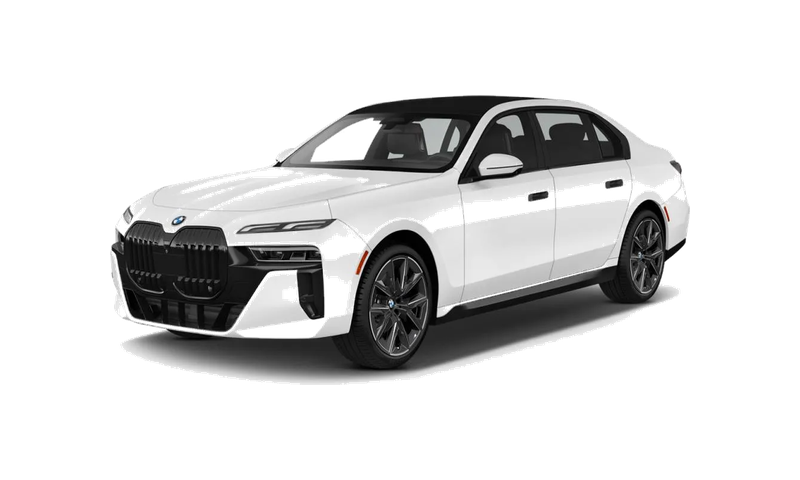
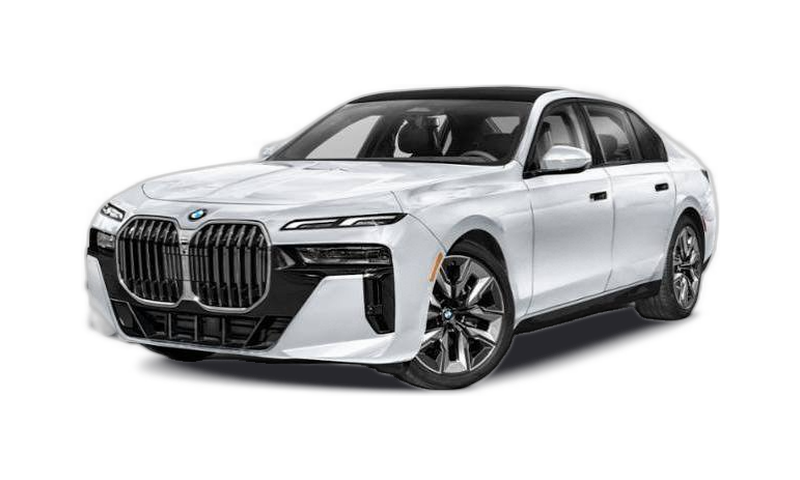
Standardize fleet images with studio quality grounding and update asset references site-wide

diff --git a/index.html b/index.html
@@ -628,7 +628,7 @@
         <div class="fleet-panel active" data-panel="economy">
           <div class="fleet-card">
             <div class="fleet-img-box">
-              <img src="/assets/images/dzire.png" alt="Maruti Suzuki Dzire">
+              <img src="/assets/images/dzire.png?v=2" alt="Maruti Suzuki Dzire">
               <span class="fleet-category-badge">Economy Sedan</span>
             </div>
             <div class="fleet-card-body">
@@ -650,7 +650,7 @@
         <div class="fleet-panel active" data-panel="economy">
           <div class="fleet-card">
             <div class="fleet-img-box">
-              <img src="/assets/images/hyundai-aura.png" alt="Hyundai Aura">
+              <img src="/assets/images/hyundai-aura.png?v=2" alt="Hyundai Aura">
               <span class="fleet-category-badge">Economy Sedan</span>
             </div>
             <div class="fleet-card-body">
@@ -672,7 +672,7 @@
         <div class="fleet-panel active" data-panel="economy">
           <div class="fleet-card">
             <div class="fleet-img-box">
-              <img src="/assets/images/verna.png" alt="Hyundai Verna">
+              <img src="/assets/images/verna.png?v=2" alt="Hyundai Verna">
               <span class="fleet-category-badge">Economy Sedan</span>
             </div>
             <div class="fleet-card-body">
@@ -695,7 +695,7 @@
         <div class="fleet-panel" data-panel="executive">
           <div class="fleet-card">
             <div class="fleet-img-box">
-              <img src="/assets/images/honda-city.png" alt="Honda City">
+              <img src="/assets/images/honda-city.png?v=5" alt="Honda City">
               <span class="fleet-category-badge">Executive Sedan</span>
             </div>
             <div class="fleet-card-body">
@@ -717,7 +717,7 @@
         <div class="fleet-panel" data-panel="executive">
           <div class="fleet-card">
             <div class="fleet-img-box">
-              <img src="/assets/images/ciaz.png" alt="Maruti Suzuki Ciaz">
+              <img src="/assets/images/ciaz.png?v=2" alt="Maruti Suzuki Ciaz">
               <span class="fleet-category-badge">Executive Sedan</span>
             </div>
             <div class="fleet-card-body">
@@ -740,7 +740,7 @@
         <div class="fleet-panel" data-panel="premium">
           <div class="fleet-card">
             <div class="fleet-img-box">
-              <img src="https://www.suhalayatravels.com/assets/img/cars/innova-crysta.png" alt="Toyota Innova Crysta">
+              <img src="/assets/images/innova-crysta.png?v=2" alt="Toyota Innova Crysta">
               <span class="fleet-category-badge">Premium MUV</span>
             </div>
             <div class="fleet-card-body">
@@ -762,7 +762,7 @@
         <div class="fleet-panel" data-panel="premium">
           <div class="fleet-card">
             <div class="fleet-img-box">
-              <img src="https://www.suhalayatravels.com/assets/img/cars/toyoto-innova.png" alt="Toyota Innova Hycross">
+              <img src="/assets/images/innova-hycross.png?v=8" alt="Toyota Innova Hycross">
               <span class="fleet-category-badge">Premium</span>
             </div>
             <div class="fleet-card-body">
@@ -784,7 +784,7 @@
         <div class="fleet-panel" data-panel="premium">
           <div class="fleet-card">
             <div class="fleet-img-box">
-              <img src="https://www.suhalayatravels.com/assets/img/cars/toyoto-fortuner.png" alt="Toyota Fortuner">
+              <img src="/assets/images/fortuner.png?v=2" alt="Toyota Fortuner">
               <span class="fleet-category-badge">Premium</span>
             </div>
             <div class="fleet-card-body">
@@ -806,7 +806,7 @@
         <div class="fleet-panel" data-panel="premium">
           <div class="fleet-card">
             <div class="fleet-img-box">
-              <img src="https://www.suhalayatravels.com/assets/img/cars/suzuki-ciaz.png" alt="Toyota Camry">
+              <img src="/assets/images/camry.png?v=5" alt="Toyota Camry">
               <span class="fleet-category-badge">Premium</span>
             </div>
             <div class="fleet-card-body">
@@ -829,7 +829,7 @@
         <div class="fleet-panel" data-panel="luxury">
           <div class="fleet-card">
             <div class="fleet-img-box">
-              <img src="https://www.suhalayatravels.com/assets/img/cars/innova-commuter.png" alt="Toyota Vellfire">
+              <img src="/assets/images/vellfire.png?v=2" alt="Toyota Vellfire">
               <span class="fleet-category-badge">Luxury VIP</span>
             </div>
             <div class="fleet-card-body">
@@ -851,7 +851,7 @@
         <div class="fleet-panel" data-panel="luxury">
           <div class="fleet-card">
             <div class="fleet-img-box">
-              <img src="/assets/images/bmw.png" alt="BMW 5 Series">
+              <img src="/assets/images/bmw.png?v=2" alt="BMW 5 Series">
               <span class="fleet-category-badge">Luxury VIP</span>
             </div>
             <div class="fleet-card-body">
@@ -873,7 +873,7 @@
         <div class="fleet-panel" data-panel="luxury">
           <div class="fleet-card">
             <div class="fleet-img-box">
-              <img src="/assets/images/mercedes-e-class.png" alt="Mercedes-Benz E-Class">
+              <img src="/assets/images/mercedes-e-class.png?v=2" alt="Mercedes-Benz E-Class">
               <span class="fleet-category-badge">Luxury VIP</span>
             </div>
             <div class="fleet-card-body">
@@ -895,7 +895,7 @@
         <div class="fleet-panel" data-panel="luxury">
           <div class="fleet-card">
             <div class="fleet-img-box">
-              <img src="/assets/images/audi.png" alt="Audi A4">
+              <img src="/assets/images/audi.png?v=2" alt="Audi A4">
               <span class="fleet-category-badge">Luxury VIP</span>
             </div>
             <div class="fleet-card-body">
@@ -917,7 +917,7 @@
         <div class="fleet-panel" data-panel="luxury">
           <div class="fleet-card">
             <div class="fleet-img-box">
-              <img src="/assets/images/bmw-7-series.png" alt="BMW 7 Series">
+              <img src="/assets/images/bmw-7-series.png?v=2" alt="BMW 7 Series">
               <span class="fleet-category-badge">Super Luxury VIP</span>
             </div>
             <div class="fleet-card-body">
@@ -939,7 +939,7 @@
         <div class="fleet-panel" data-panel="luxury">
           <div class="fleet-card">
             <div class="fleet-img-box">
-              <img src="/assets/images/mercedes-s-class.png" alt="Mercedes-Benz S-Class">
+              <img src="/assets/images/mercedes-s-class.png?v=2" alt="Mercedes-Benz S-Class">
               <span class="fleet-category-badge">Super Luxury VIP</span>
             </div>
             <div class="fleet-card-body">
@@ -961,7 +961,7 @@
         <div class="fleet-panel" data-panel="luxury">
           <div class="fleet-card">
             <div class="fleet-img-box">
-              <img src="/assets/images/audi-a7.png" alt="Audi Q7">
+              <img src="/assets/images/audi-a7.png?v=2" alt="Audi Q7">
               <span class="fleet-category-badge">Super Luxury SUV</span>
             </div>
             <div class="fleet-card-body">
@@ -983,7 +983,7 @@
         <div class="fleet-panel" data-panel="luxury">
           <div class="fleet-card">
             <div class="fleet-img-box">
-              <img src="https://www.suhalayatravels.com/assets/img/cars/innova-commuter1.png" alt="Toyota Commuter">
+              <img src="/assets/images/toyota-commuter.png?v=2" alt="Toyota Commuter">
               <span class="fleet-category-badge">Luxury VIP</span>
             </div>
             <div class="fleet-card-body">
@@ -1006,7 +1006,7 @@
         <div class="fleet-panel" data-panel="mpv">
           <div class="fleet-card">
             <div class="fleet-img-box">
-              <img src="/assets/images/force-urbania.png" alt="Force Urbania - 9 Seater">
+              <img src="/assets/images/force-urbania.png?v=2" alt="Force Urbania - 9 Seater">
               <span class="fleet-category-badge">Multi Passenger</span>
             </div>
             <div class="fleet-card-body">
@@ -1028,7 +1028,7 @@
         <div class="fleet-panel" data-panel="mpv">
           <div class="fleet-card">
             <div class="fleet-img-box">
-              <img src="/assets/images/urbania-12-seater.png" alt="Force Urbania - 12 Seater">
+              <img src="/assets/images/urbania-12-seater.png?v=2" alt="Force Urbania - 12 Seater">
               <span class="fleet-category-badge">Multi Passenger</span>
             </div>
             <div class="fleet-card-body">
@@ -1050,7 +1050,7 @@
         <div class="fleet-panel" data-panel="mpv">
           <div class="fleet-card">
             <div class="fleet-img-box">
-              <img src="/assets/images/urbania-16-seater.png" alt="Force Urbania - 16 Seater">
+              <img src="/assets/images/urbania-16-seater.png?v=2" alt="Force Urbania - 16 Seater">
               <span class="fleet-category-badge">Multi Passenger</span>
             </div>
             <div class="fleet-card-body">
@@ -1114,7 +1114,7 @@
         <div class="fleet-panel" data-panel="mpv">
           <div class="fleet-card">
             <div class="fleet-img-box">
-              <img src="/assets/images/ashok-leyland-24-seater.png" alt="Ashok Leyland - 24 Seater">
+              <img src="/assets/images/ashok-leyland-24-seater.png?v=2" alt="Ashok Leyland - 24 Seater">
               <span class="fleet-category-badge">Multi Passenger</span>
             </div>
             <div class="fleet-card-body">

diff --git a/events-conferences/index.html b/events-conferences/index.html
@@ -390,7 +390,7 @@
         <!-- 3. Mercedes-Benz E-Class -->
         <div class="fleet-catalog-card-lux">
           <div class="fleet-card-img-box-lux">
-            <img src="/assets/images/mercedes-e-class.png" alt="Mercedes-Benz E-Class">
+            <img src="/assets/images/mercedes-e-class.png?v=2" alt="Mercedes-Benz E-Class">
           </div>
           <div class="fleet-action-bar-lux">
             <span class="fleet-price-tag-lux">Bridal Entry VIP</span>
@@ -411,7 +411,7 @@
         <!-- 4. Mercedes-Benz S-Class -->
         <div class="fleet-catalog-card-lux">
           <div class="fleet-card-img-box-lux">
-            <img src="/assets/images/mercedes-s-class.png" alt="Mercedes-Benz S-Class">
+            <img src="/assets/images/mercedes-s-class.png?v=2" alt="Mercedes-Benz S-Class">
           </div>
           <div class="fleet-action-bar-lux">
             <span class="fleet-price-tag-lux">Ultra VIP Flagship</span>
@@ -432,7 +432,7 @@
         <!-- 5. BMW 5 Series -->
         <div class="fleet-catalog-card-lux">
           <div class="fleet-card-img-box-lux">
-            <img src="https://www.suhalayatravels.com/assets/img/cars/bmw.png" alt="BMW 5 Series">
+            <img src="/assets/images/bmw.png?v=2" alt="BMW 5 Series">
           </div>
           <div class="fleet-action-bar-lux">
             <span class="fleet-price-tag-lux">Executive VIP</span>
@@ -453,7 +453,7 @@
         <!-- 6. BMW 7 Series -->
         <div class="fleet-catalog-card-lux">
           <div class="fleet-card-img-box-lux">
-            <img src="/assets/images/bmw-7-series.png" alt="BMW 7 Series">
+            <img src="/assets/images/bmw-7-series.png?v=2" alt="BMW 7 Series">
           </div>
           <div class="fleet-action-bar-lux">
             <span class="fleet-price-tag-lux">Presidential VIP</span>
@@ -474,7 +474,7 @@
         <!-- 7. Audi A6 -->
         <div class="fleet-catalog-card-lux">
           <div class="fleet-card-img-box-lux">
-            <img src="https://www.suhalayatravels.com/assets/img/cars/audi.png" alt="Audi A6">
+            <img src="/assets/images/audi.png?v=2" alt="Audi A6">
           </div>
           <div class="fleet-action-bar-lux">
             <span class="fleet-price-tag-lux">Prestige Cruiser</span>
@@ -495,7 +495,7 @@
         <!-- 8. Audi A7 -->
         <div class="fleet-catalog-card-lux">
           <div class="fleet-card-img-box-lux">
-            <img src="/assets/images/audi-a7.png" alt="Audi A7">
+            <img src="/assets/images/audi-a7.png?v=2" alt="Audi A7">
           </div>
           <div class="fleet-action-bar-lux">
             <span class="fleet-price-tag-lux">Sportback VIP</span>
@@ -537,7 +537,7 @@
         <!-- 10. Toyota Vellfire -->
         <div class="fleet-catalog-card-lux">
           <div class="fleet-card-img-box-lux">
-            <img src="https://www.suhalayatravels.com/assets/img/cars/innova-commuter1.png" alt="Toyota Vellfire">
+            <img src="/assets/images/vellfire.png?v=2" alt="Toyota Vellfire">
           </div>
           <div class="fleet-action-bar-lux">
             <span class="fleet-price-tag-lux">Ultra VIP MPV</span>
@@ -558,7 +558,7 @@
         <!-- 11. Force Urbania -->
         <div class="fleet-catalog-card-lux">
           <div class="fleet-card-img-box-lux">
-            <img src="/assets/images/force-urbania.png" alt="Force Urbania">
+            <img src="/assets/images/force-urbania.png?v=2" alt="Force Urbania">
           </div>
           <div class="fleet-action-bar-lux">
             <span class="fleet-price-tag-lux">Premium Van</span>

diff --git a/luxury-chauffeur-services/index.html b/luxury-chauffeur-services/index.html
@@ -390,7 +390,7 @@
             <!-- 1. AUDI A6 -->
             <div class="fleet-catalog-card-lux">
               <div class="fleet-card-img-box-lux">
-                <img src="/assets/images/audi.png" alt="Audi A6">
+                <img src="/assets/images/audi.png?v=2" alt="Audi A6">
               </div>
               <div class="fleet-action-bar-lux">
                 <span class="fleet-price-tag-lux">German Prestige</span>
@@ -411,7 +411,7 @@
             <!-- 2. AUDI A7 -->
             <div class="fleet-catalog-card-lux">
               <div class="fleet-card-img-box-lux">
-                <img src="/assets/images/audi-a7.png" alt="Audi A7">
+                <img src="/assets/images/audi-a7.png?v=2" alt="Audi A7">
               </div>
               <div class="fleet-action-bar-lux">
                 <span class="fleet-price-tag-lux">German Prestige</span>
@@ -432,7 +432,7 @@
             <!-- 3. BMW 5 SERIES -->
             <div class="fleet-catalog-card-lux">
               <div class="fleet-card-img-box-lux">
-                <img src="/assets/images/bmw.png" alt="BMW 5 Series">
+                <img src="/assets/images/bmw.png?v=2" alt="BMW 5 Series">
               </div>
               <div class="fleet-action-bar-lux">
                 <span class="fleet-price-tag-lux">VIP Executive</span>
@@ -453,7 +453,7 @@
             <!-- 4. BMW 7 SERIES -->
             <div class="fleet-catalog-card-lux">
               <div class="fleet-card-img-box-lux">
-                <img src="/assets/images/bmw-7-series.png" alt="BMW 7 Series">
+                <img src="/assets/images/bmw-7-series.png?v=2" alt="BMW 7 Series">
               </div>
               <div class="fleet-action-bar-lux">
                 <span class="fleet-price-tag-lux">Flagship VIP</span>
@@ -495,7 +495,7 @@
             <!-- 6. MERCEDES-BENZ E-CLASS -->
             <div class="fleet-catalog-card-lux">
               <div class="fleet-card-img-box-lux">
-                <img src="/assets/images/mercedes-e-class.png" alt="Mercedes-Benz E-Class">
+                <img src="/assets/images/mercedes-e-class.png?v=2" alt="Mercedes-Benz E-Class">
               </div>
               <div class="fleet-action-bar-lux">
                 <span class="fleet-price-tag-lux">Corporate VIP</span>
@@ -516,7 +516,7 @@
             <!-- 7. MERCEDES-BENZ S-CLASS -->
             <div class="fleet-catalog-card-lux">
               <div class="fleet-card-img-box-lux">
-                <img src="/assets/images/mercedes-s-class.png" alt="Mercedes-Benz S-Class">
+                <img src="/assets/images/mercedes-s-class.png?v=2" alt="Mercedes-Benz S-Class">
               </div>
               <div class="fleet-action-bar-lux">
                 <span class="fleet-price-tag-lux">Ultra Luxury VIP</span>
@@ -537,7 +537,7 @@
             <!-- 8. FORCE URBANIA -->
             <div class="fleet-catalog-card-lux">
               <div class="fleet-card-img-box-lux">
-                <img src="/assets/images/force-urbania.png" alt="Force Urbania">
+                <img src="/assets/images/force-urbania.png?v=2" alt="Force Urbania">
               </div>
               <div class="fleet-action-bar-lux">
                 <span class="fleet-price-tag-lux">Luxury MPV</span>

diff --git a/outstation-travel/index.html b/outstation-travel/index.html
@@ -376,7 +376,7 @@
         <!-- 1. Economy Sedans -->
         <div class="fleet-catalog-card-lux">
           <div class="fleet-card-img-box-lux">
-            <img src="/assets/images/dzire.png" alt="Maruti Suzuki Dzire">
+            <img src="/assets/images/dzire.png?v=2" alt="Maruti Suzuki Dzire">
           </div>
           <div class="fleet-action-bar-lux">
             <span class="fleet-price-tag-lux">Economy Cruiser</span>
@@ -418,7 +418,7 @@
         <!-- 3. Toyota Innova Crysta -->
         <div class="fleet-catalog-card-lux">
           <div class="fleet-card-img-box-lux">
-            <img src="https://www.suhalayatravels.com/assets/img/cars/innova-crysta.png" alt="Toyota Innova Crysta">
+            <img src="/assets/images/innova-crysta.png?v=2" alt="Toyota Innova Crysta">
           </div>
           <div class="fleet-action-bar-lux">
             <span class="fleet-price-tag-lux">Highway Cruiser</span>
@@ -439,7 +439,7 @@
         <!-- 4. Mercedes-Benz E-Class -->
         <div class="fleet-catalog-card-lux">
           <div class="fleet-card-img-box-lux">
-            <img src="/assets/images/mercedes-e-class.png" alt="Mercedes-Benz E-Class">
+            <img src="/assets/images/mercedes-e-class.png?v=2" alt="Mercedes-Benz E-Class">
           </div>
           <div class="fleet-action-bar-lux">
             <span class="fleet-price-tag-lux">German VIP</span>
@@ -460,7 +460,7 @@
         <!-- 5. BMW 5 Series -->
         <div class="fleet-catalog-card-lux">
           <div class="fleet-card-img-box-lux">
-            <img src="/assets/images/bmw.png" alt="BMW 5 Series">
+            <img src="/assets/images/bmw.png?v=2" alt="BMW 5 Series">
           </div>
           <div class="fleet-action-bar-lux">
             <span class="fleet-price-tag-lux">Sport Executive</span>
@@ -481,7 +481,7 @@
         <!-- 6. Force Urbania -->
         <div class="fleet-catalog-card-lux">
           <div class="fleet-card-img-box-lux">
-            <img src="/assets/images/force-urbania.png" alt="Force Urbania">
+            <img src="/assets/images/force-urbania.png?v=2" alt="Force Urbania">
           </div>
           <div class="fleet-action-bar-lux">
             <span class="fleet-price-tag-lux">Premium Van</span>

diff --git a/employee-transportation/index.html b/employee-transportation/index.html
@@ -441,7 +441,7 @@
         <!-- CARD 4: Luxury -->
         <div class="fleet-catalog-card-emp">
           <div class="fleet-card-img-box-emp">
-            <img src="https://www.suhalayatravels.com/assets/img/cars/innova-commuter1.png" alt="Luxury Category">
+            <img src="/assets/images/toyota-commuter.png?v=2" alt="Luxury Category">
           </div>
           <div class="fleet-action-bar-emp">
             <span class="fleet-price-tag-emp">Luxury VIP</span>

diff --git a/corporate-car-rental/index.html b/corporate-car-rental/index.html
@@ -457,7 +457,7 @@
         <!-- CARD 4: Luxury -->
         <div class="fleet-catalog-card">
           <div class="fleet-card-img-box">
-            <img src="https://www.suhalayatravels.com/assets/img/cars/innova-commuter1.png" alt="Luxury Category">
+            <img src="/assets/images/toyota-commuter.png?v=2" alt="Luxury Category">
           </div>
           <div class="fleet-action-bar">
             <span class="fleet-price-tag">Luxury VIP</span>
